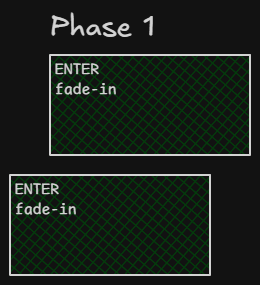
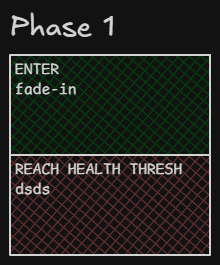
vault backup: 2026-08-04 21:03:50

diff --git a/Projects/Summer Project/Mechanics/Boss/Boss01 Graph.md b/Projects/Summer Project/Mechanics/Boss/Boss01 Graph.md
@@ -14,8 +14,8 @@ Phase 1 ^spLRP6vF
 ENTER
 fade-in ^ErVCnzOs
 
-ENTER
-fade-in ^1nndUhKs
+REACH HEALTH THRESH
+dsds ^1nndUhKs
 
 %%
 ## Drawing
@@ -32,20 +32,20 @@ qsAbJFCqZXqBoFKa3zmh+CBYagOH2o6rnoLgqSDVlnpdr6CphEuaAJOMOw5skTRXaMUGxpwGzJIm3zJn
 
[1 lines of base64/hex data omitted]
 
[2 lines of base64/hex data omitted]
 
[2 lines of base64/hex data omitted]
 
[2 lines of base64/hex data omitted]
 
[2 lines of base64/hex data omitted]
 
[2 lines of base64/hex data omitted]
 
[2 lines of base64/hex data omitted]
 
[2 lines of base64/hex data omitted]
 
-7EkDgGwB0d5fdwCnyP53NuO9sEwNSAvcZ/dVSoQA8AktheUnCHBsmkkgA===
[1 lines of base64/hex data omitted]
 ```
 %%
